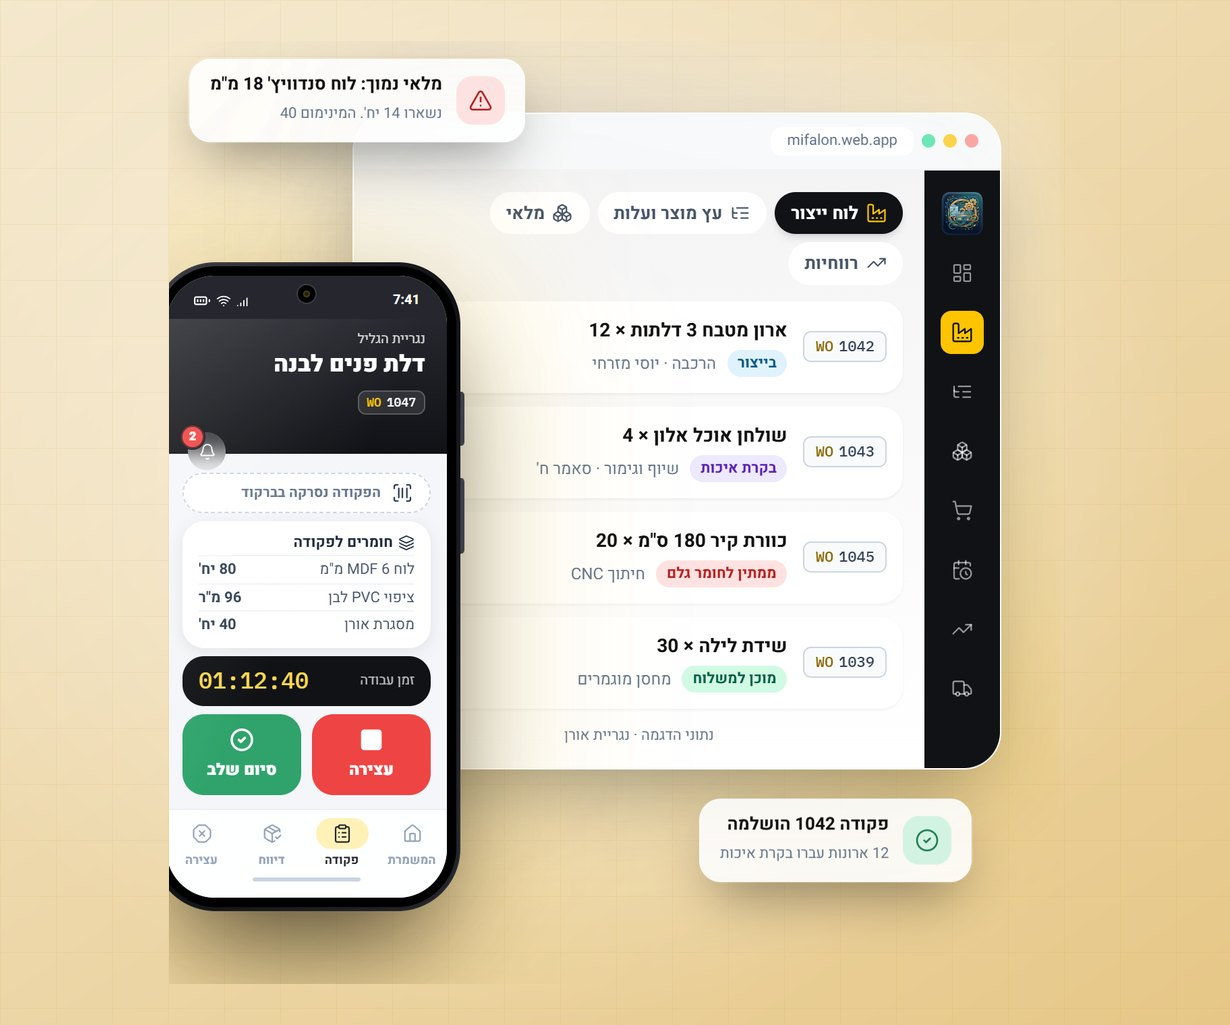
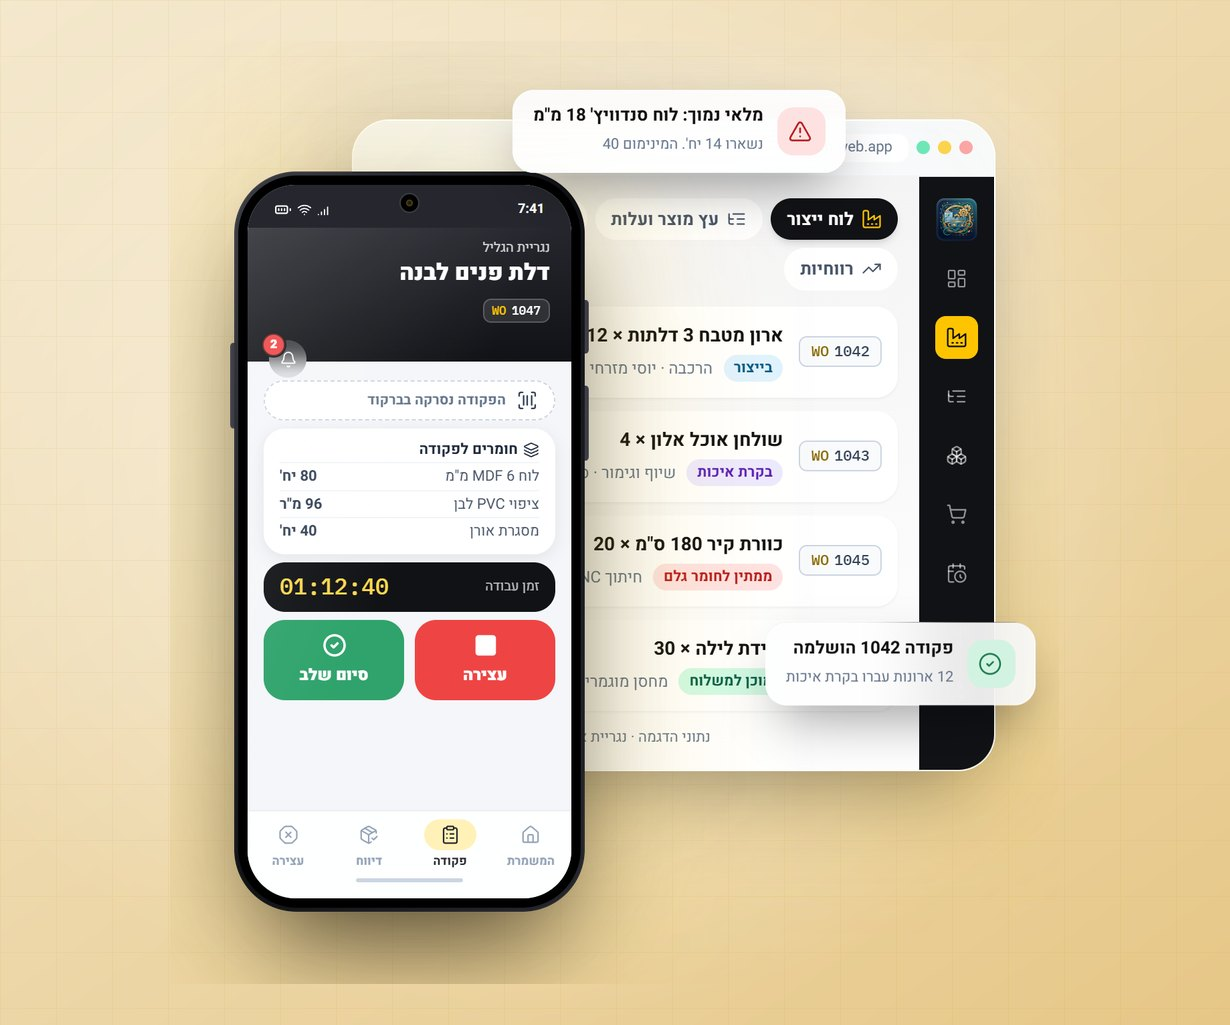
Mifalon card: phone mock in the same layout as the other systems

diff --git a/index.html b/index.html
@@ -979,7 +979,7 @@ body.en .foot-phone { direction:ltr; }
       <!-- 8 Mifalon -->
       <div class="proj rev d1">
         <div class="proj-img">
-          <a class="proj-img-link" href="/mifalon/" target="_blank" rel="noopener" tabindex="-1" aria-hidden="true"><img src="screenshots/sys-mifalon.jpg?v=2" alt="מפעלון: המערכת במחשב ובנייד" width="1230" height="1025" loading="lazy"></a>
+          <a class="proj-img-link" href="/mifalon/" target="_blank" rel="noopener" tabindex="-1" aria-hidden="true"><img src="screenshots/sys-mifalon.jpg?v=3" alt="מפעלון: המערכת במחשב ובנייד" width="1230" height="1025" loading="lazy"></a>
         </div>
         <div class="proj-body">
           <h3 class="proj-title" data-en="Mifalon - Factory Management">מפעלון - מערכת לניהול מפעלים</h3>
